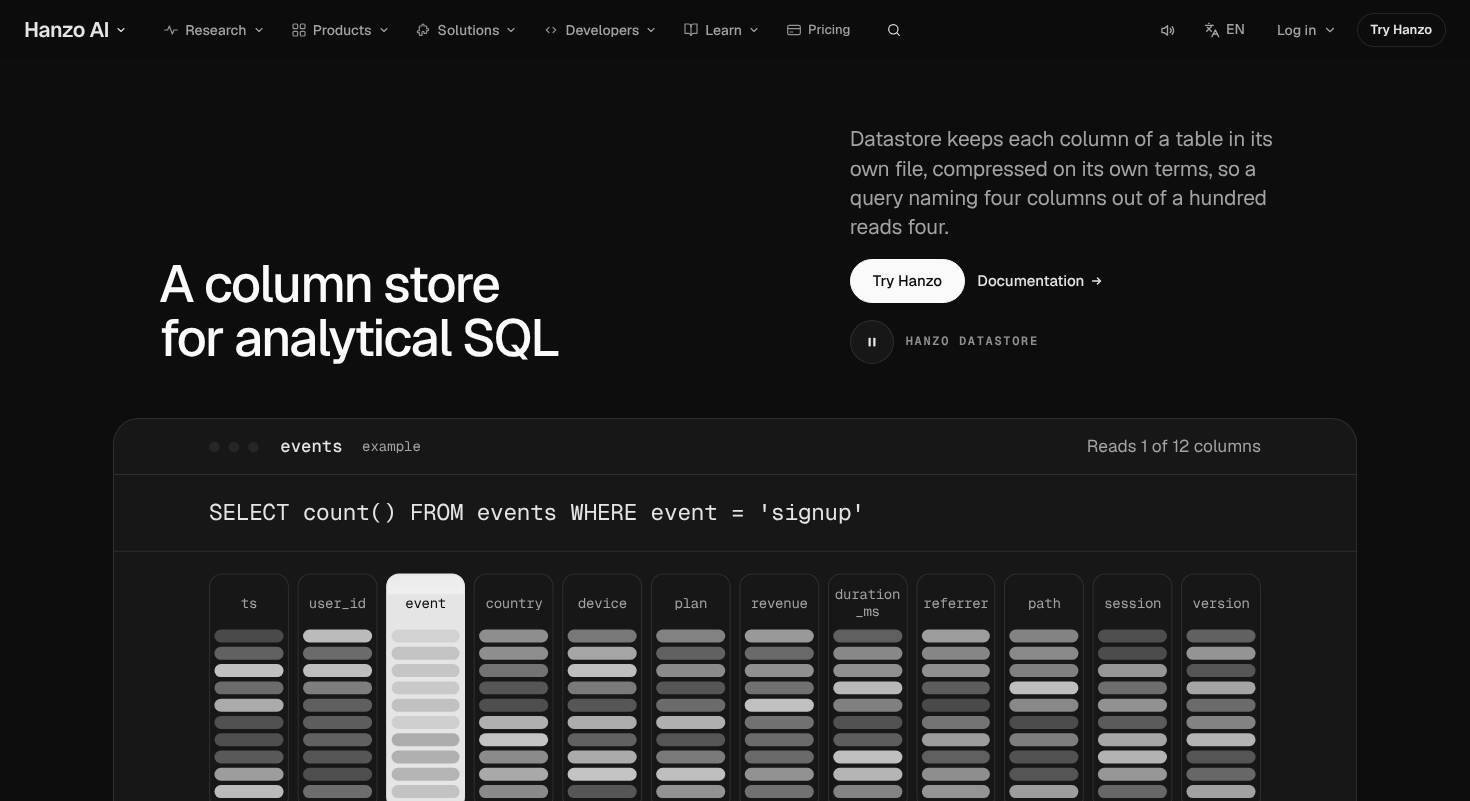
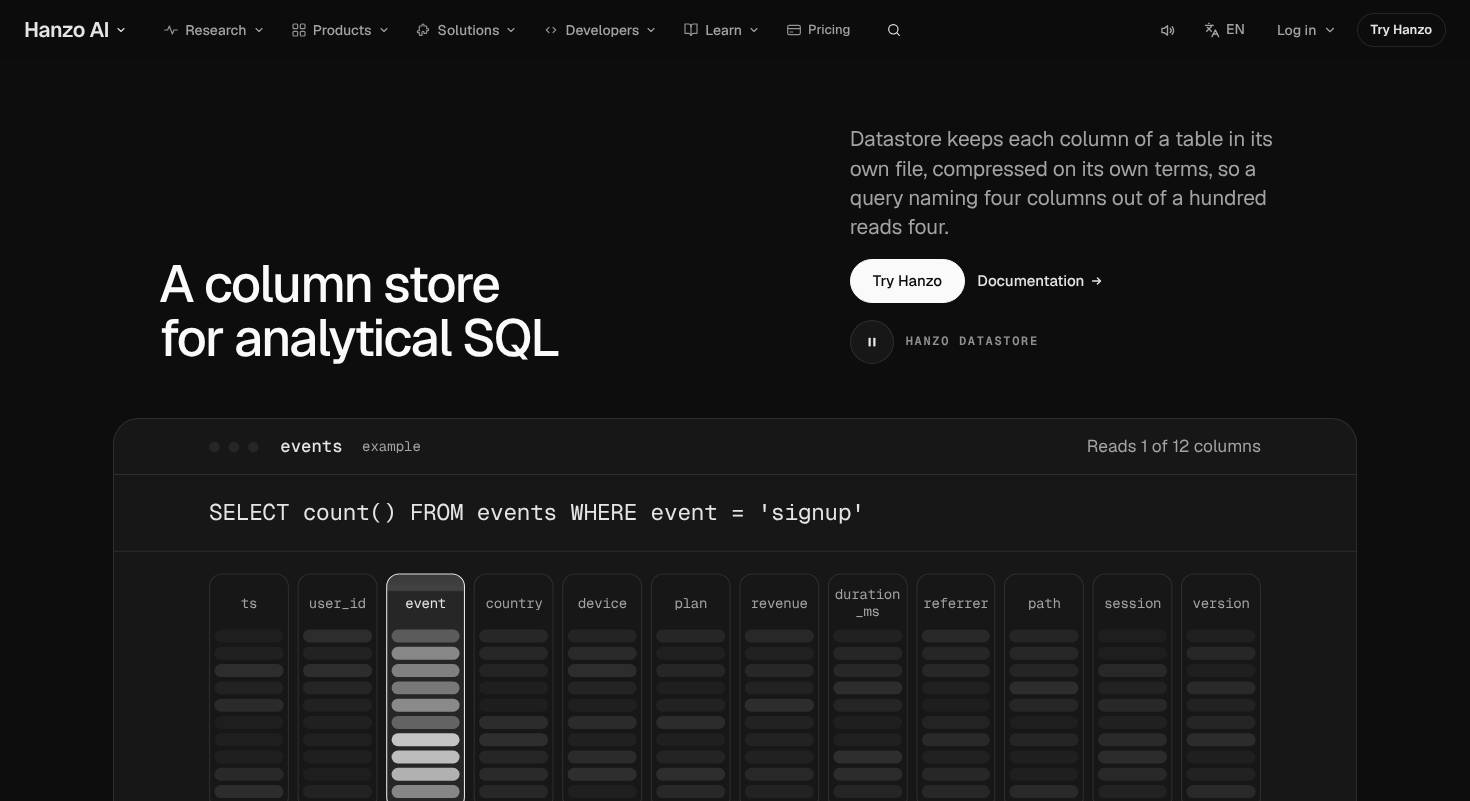
datastore: dark mode — data marks dim unless read (as live): unselected column blocks on Hanzo's secondary-hover, the read column a secondary tile with a foreground border and light blocks, softer beam; table, node, part and index marks the same way
Claude-Session: https://claude.ai/code/session_01P5YBdx19ukLv4B41yE4M3v

Changed region(s): [[0.1224, 0.7179, 0.8571, 1.0]]

diff --git a/components/pages/cloud/Datastore.css b/components/pages/cloud/Datastore.css
@@ -397,3 +397,17 @@ html:not(.js) .ds-index li { color: var(--ink); }
 /* ---------- dark mode (8 Nov, docs/DARK-MODE.md): the Keynote deck pins its tokens light on .kn, so this page points
    them at Hanzo's dark tokens; every light value above is unchanged ---------- */
 html:not(.light) .ds { --ink: var(--foreground); --soft: var(--muted-foreground); --faint: var(--text-tertiary); --line: var(--border); --body: var(--muted-foreground); --quiet: var(--text-tertiary); --hair: var(--border); background: var(--background); }
+/* dark: data marks stay dim unless they are the ones being read (as live hanzo.ai/datastore draws them in dark) */
+html:not(.light) .ds .ds-file:not(.on) .ds-blocks i { background: var(--secondary-hover); }
+html:not(.light) .ds .ds-file.on { background: var(--secondary); border-color: var(--foreground); color: var(--foreground); }
+html:not(.light) .ds .ds-file.on .ds-blocks i { background: var(--foreground); }
+html:not(.light) .ds .ds-beam { opacity: .35; }
+html:not(.light) .ds :is(.ds-s-file span i, .ds-parts i, .ds-dn i, .ds-time i, .ds-index-b b) { background: var(--secondary-hover); }
+html:not(.light) .ds .ds-time i { background: var(--border-selected); }
+html:not(.light) .ds .ds-mv i { background: var(--muted-foreground); }
+html:not(.light) .ds .ds-index li[data-on] .ds-index-b b { background: var(--foreground); }
+html:not(.light) .ds .ds-x-name { background: var(--secondary); border-color: var(--border-strong); color: var(--foreground); }
+html:not(.light) .ds .ds-x-part i { background: var(--secondary-hover); }
+html:not(.light) .ds :is(.ds-x-obj.s0 .ds-x-col.read, .ds-x-obj.s1 .ds-x-col.vec) .ds-x-name { border-color: var(--foreground); }
+html:not(.light) .ds :is(.ds-x-obj.s0 .ds-x-col.read .ds-x-part i, .ds-x-obj.s1 .ds-x-col.vec .ds-x-part:nth-child(-n+2) i, .ds-x-obj.s2 .ds-x-part.run i) { background: var(--foreground); }
+html:not(.light) .ds .ds-x-obj.s3 .ds-x-part i { background: var(--muted-foreground); }
